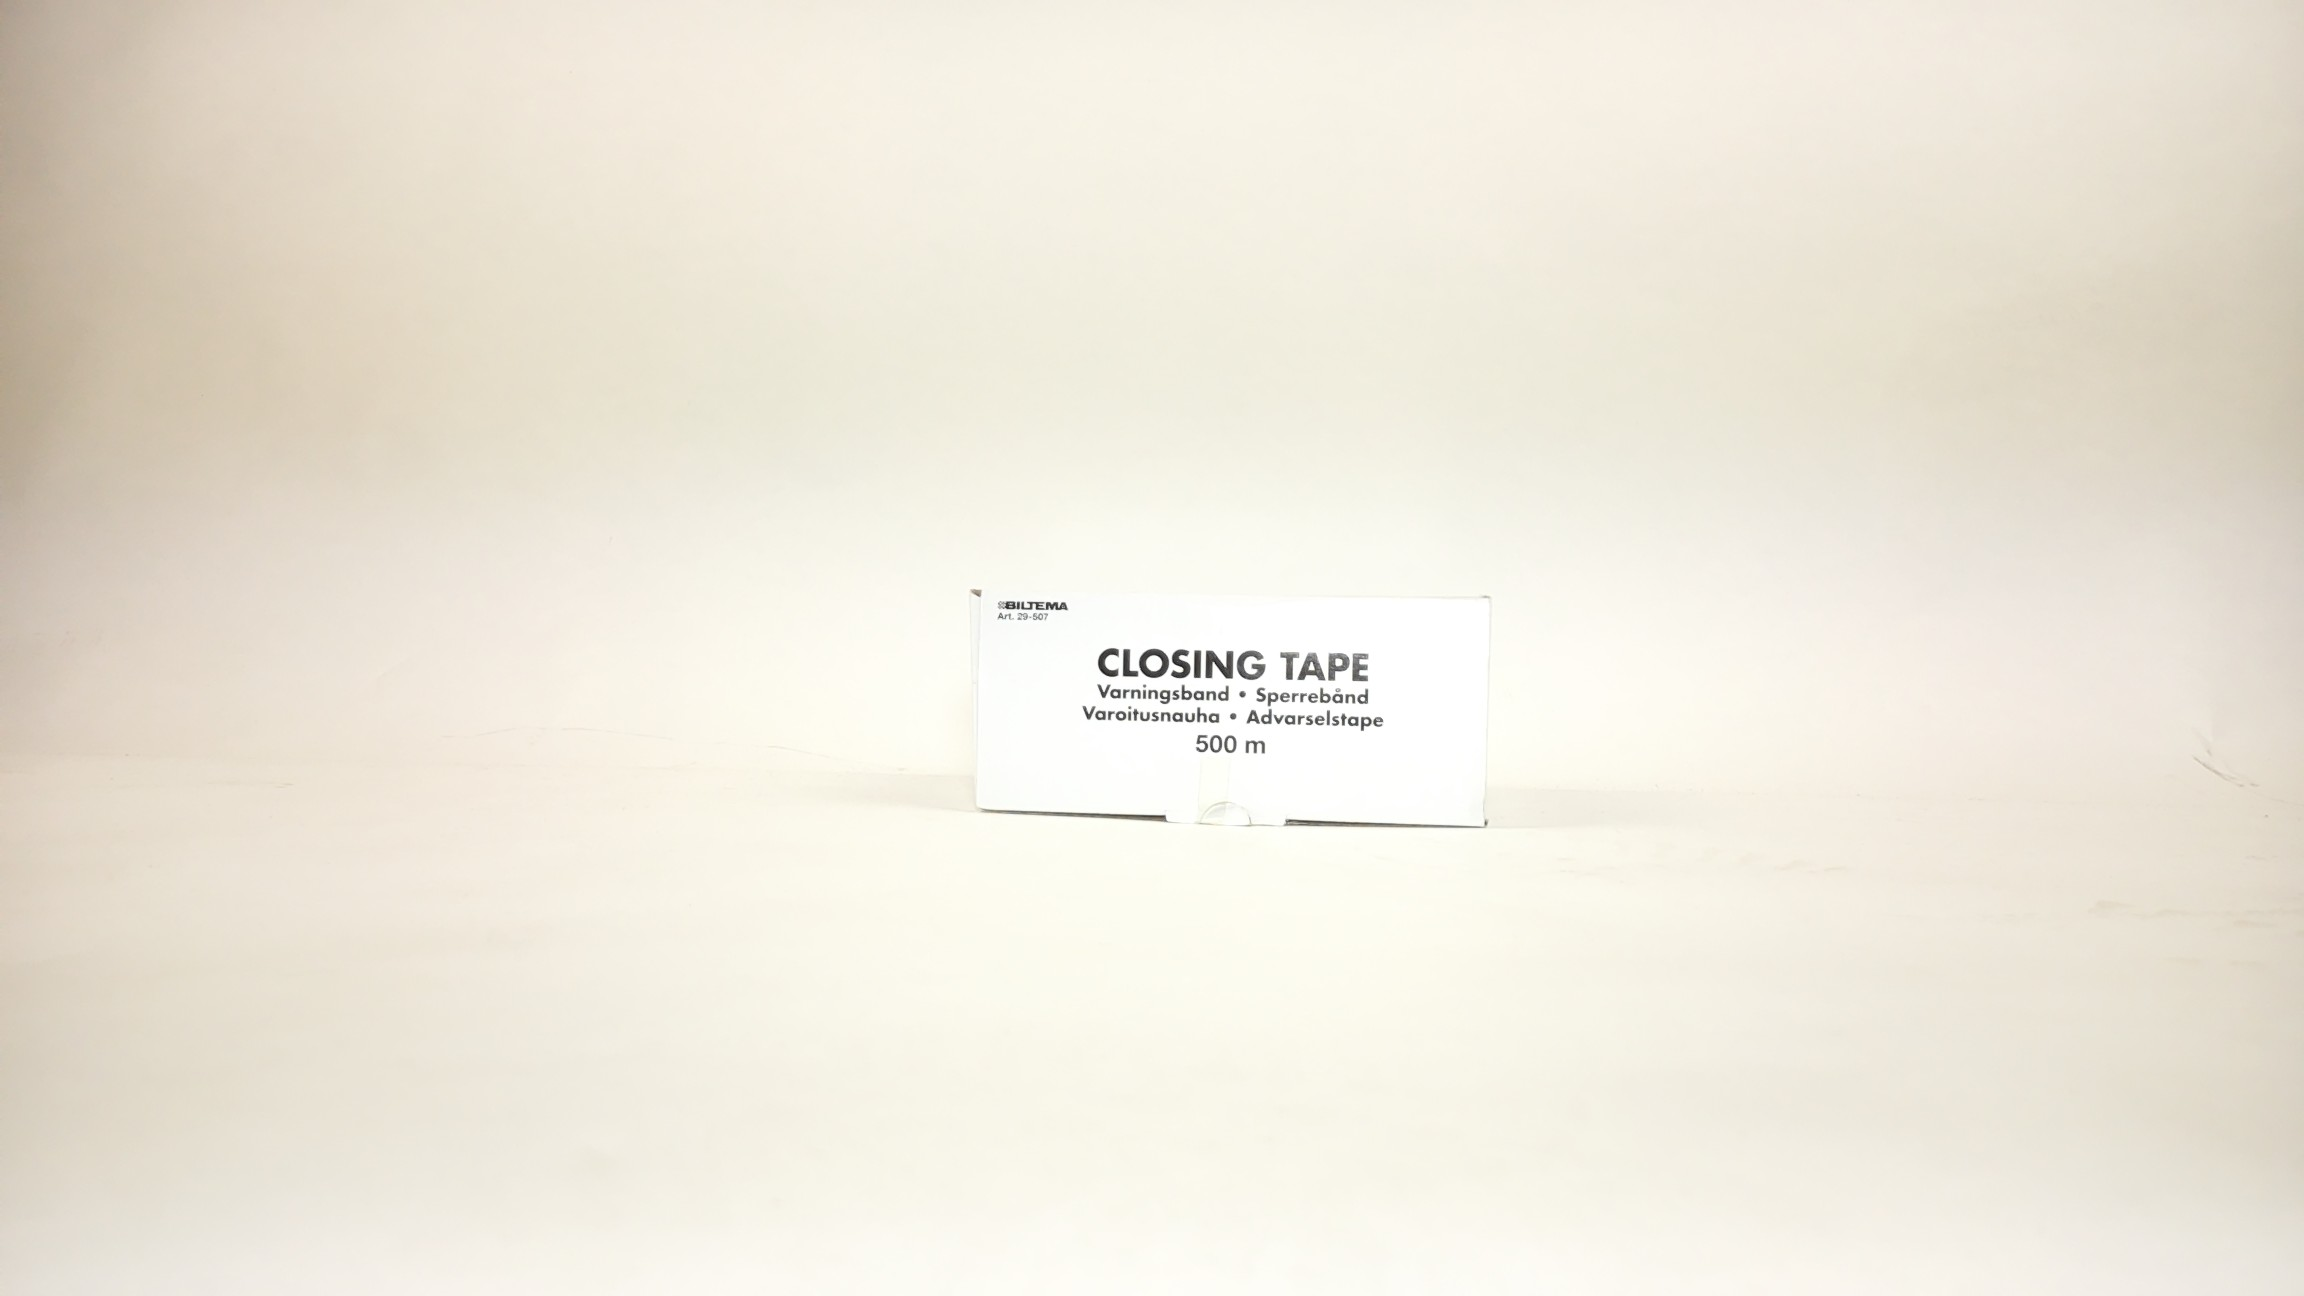
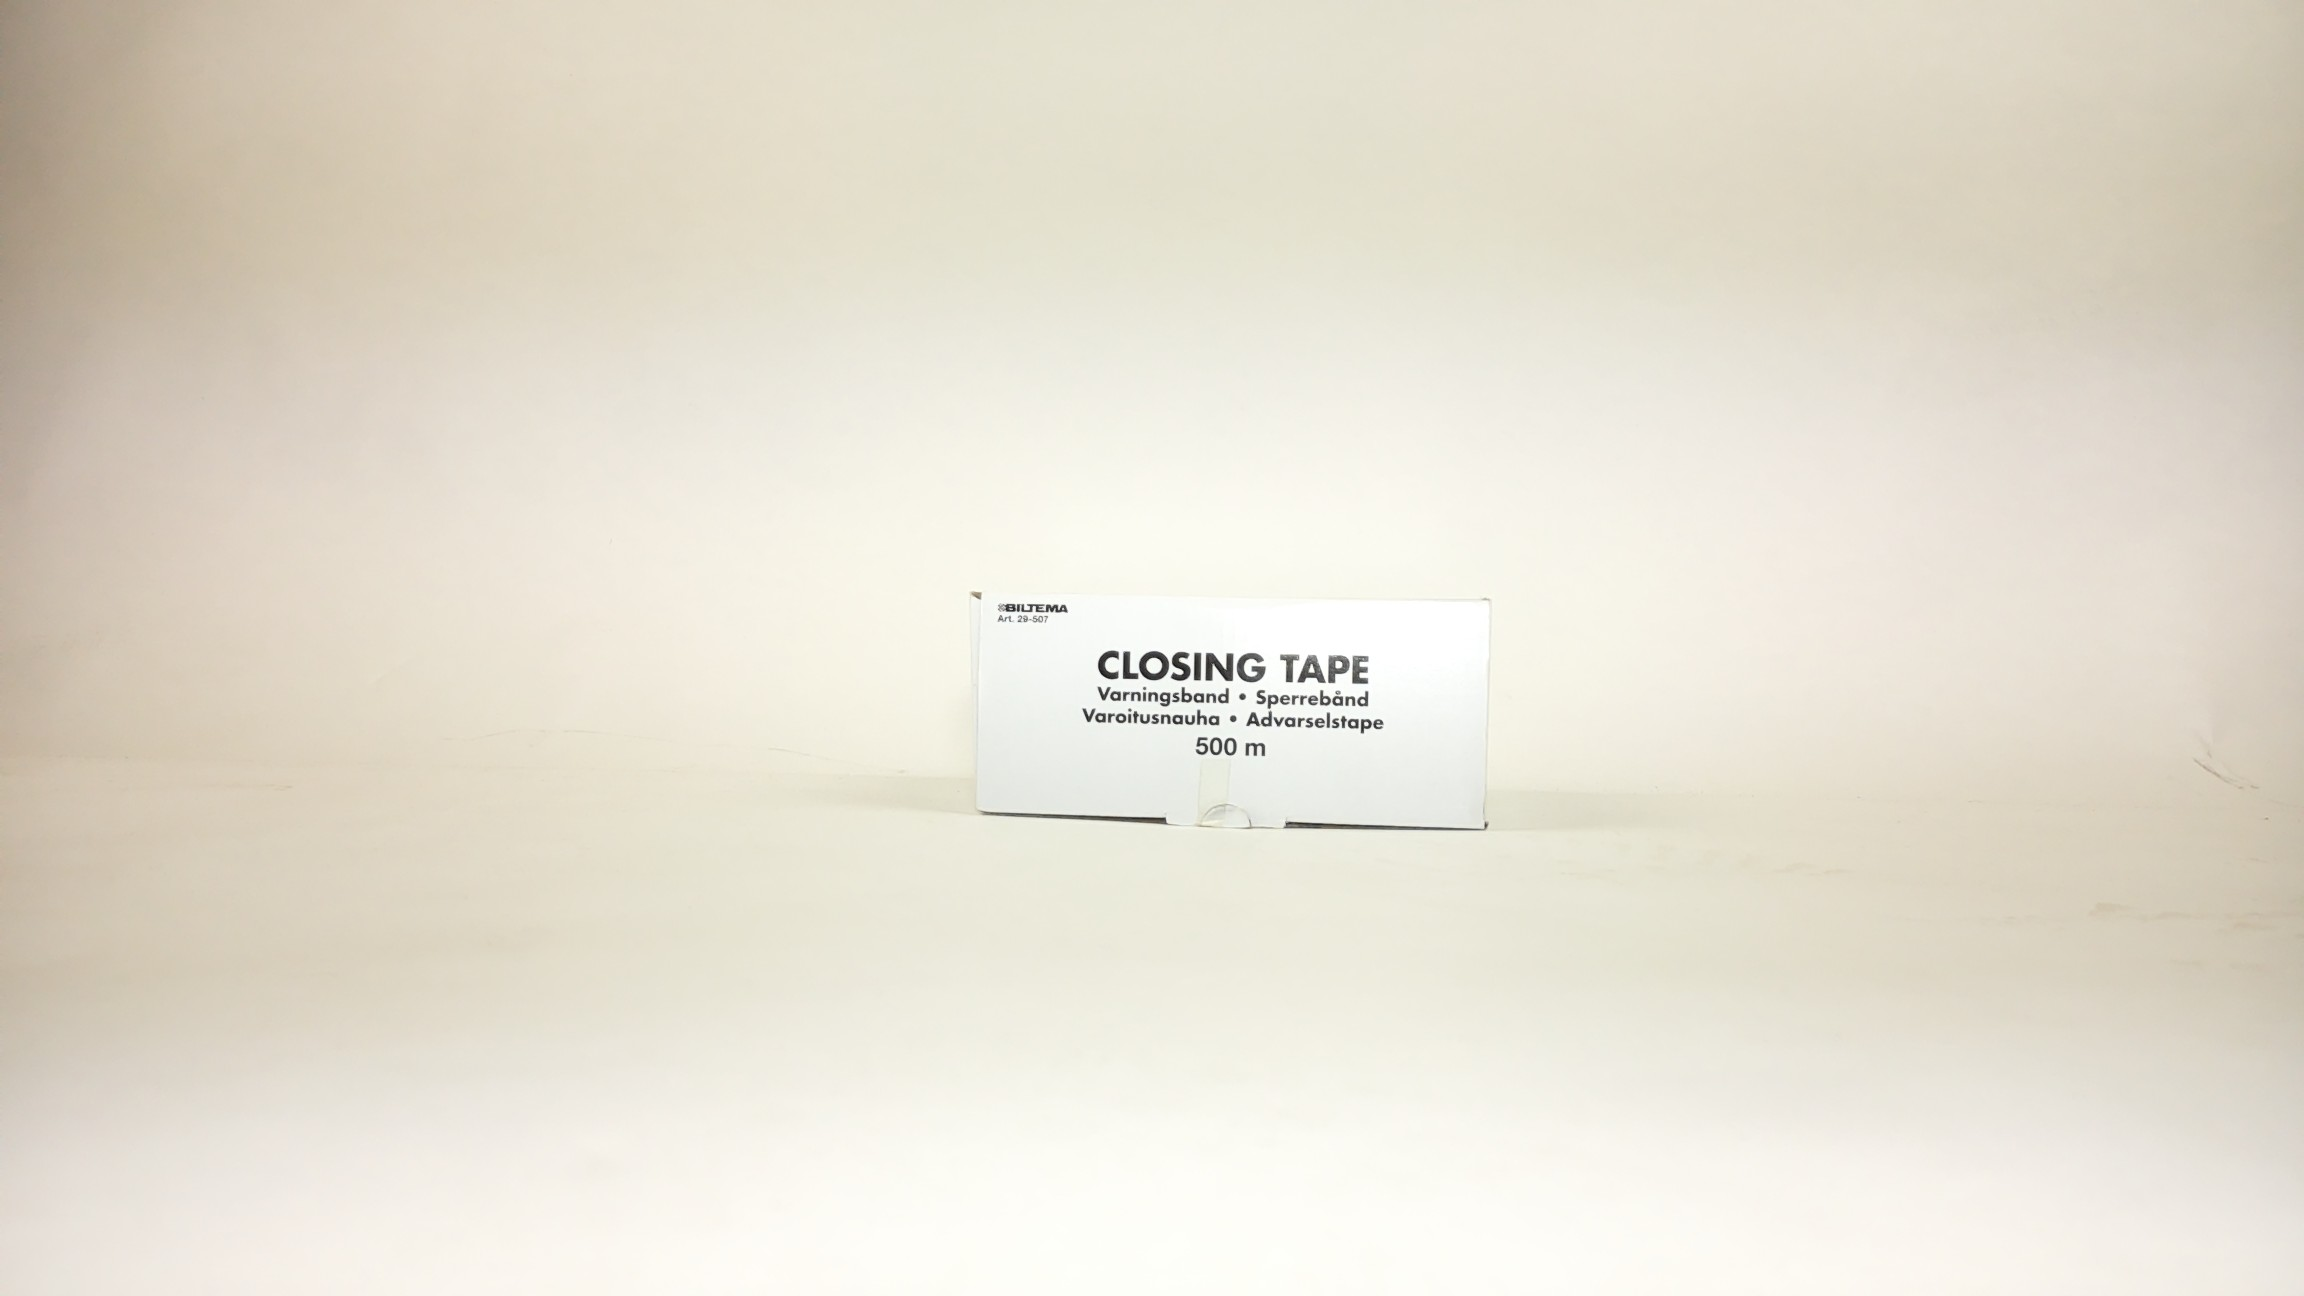
adjustments

diff --git a/tools/libcam.py b/tools/libcam.py
@@ -3,7 +3,7 @@ from picamera2 import Picamera2, Preview
 
 picam = Picamera2()
 # picam.create_preview_configuration()
-controls = {"ExposureTime": 1800, 
+controls = {"ExposureTime": 1600, 
             "AnalogueGain": 1.0, 
             "Brightness": 0.08,
             "Sharpness":3,
